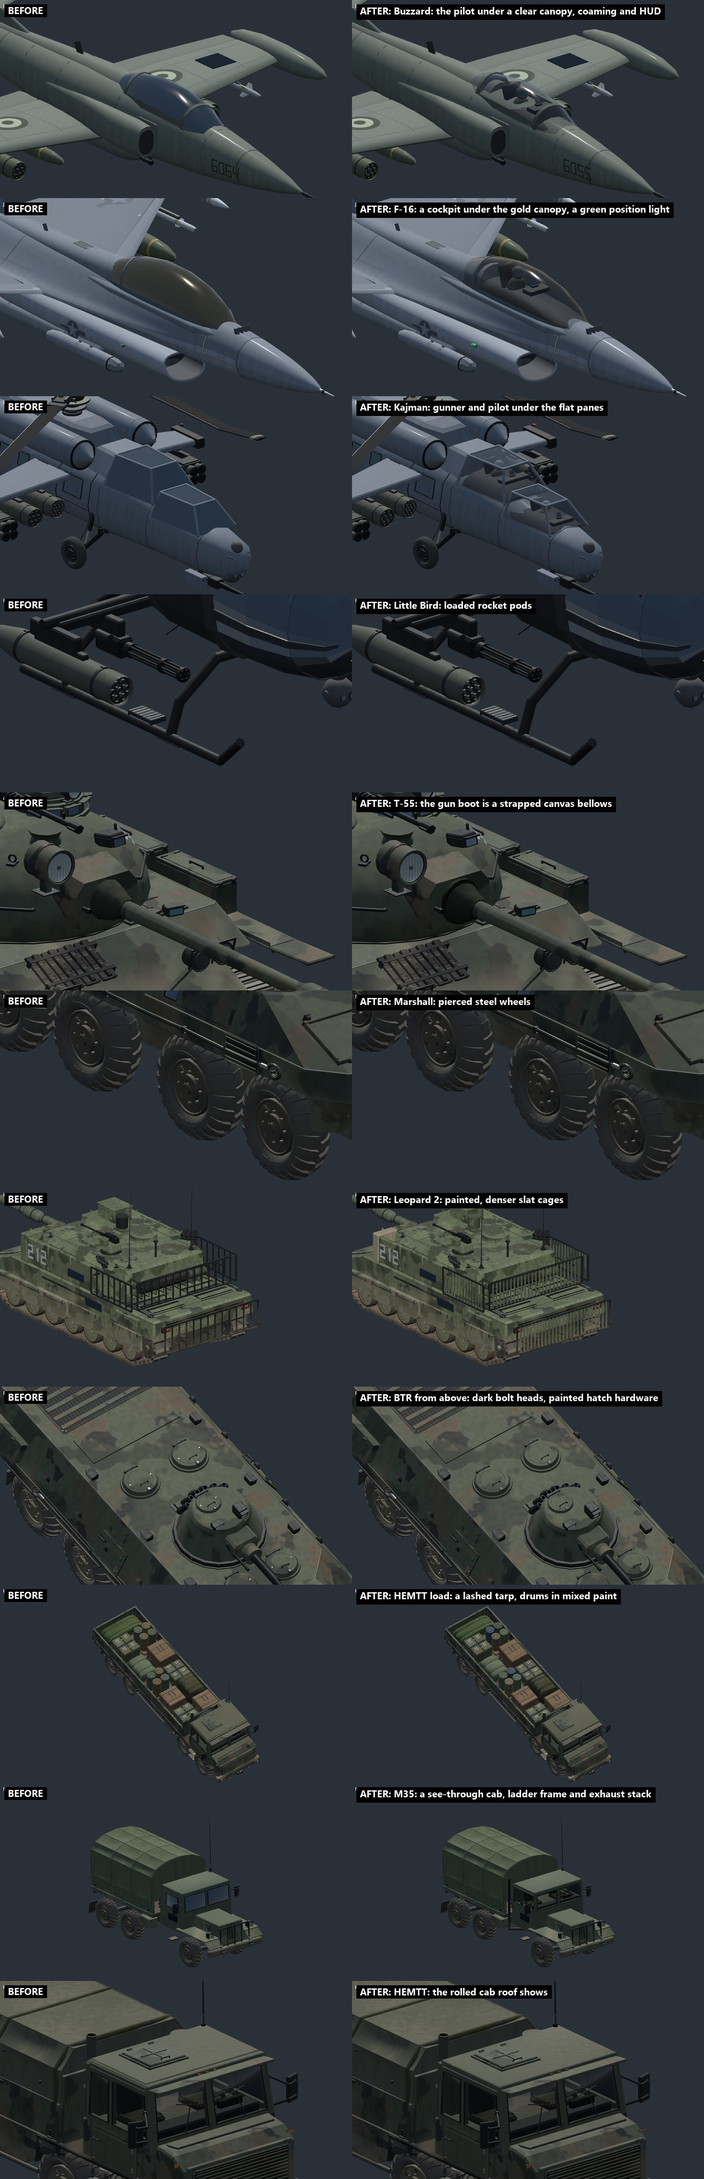
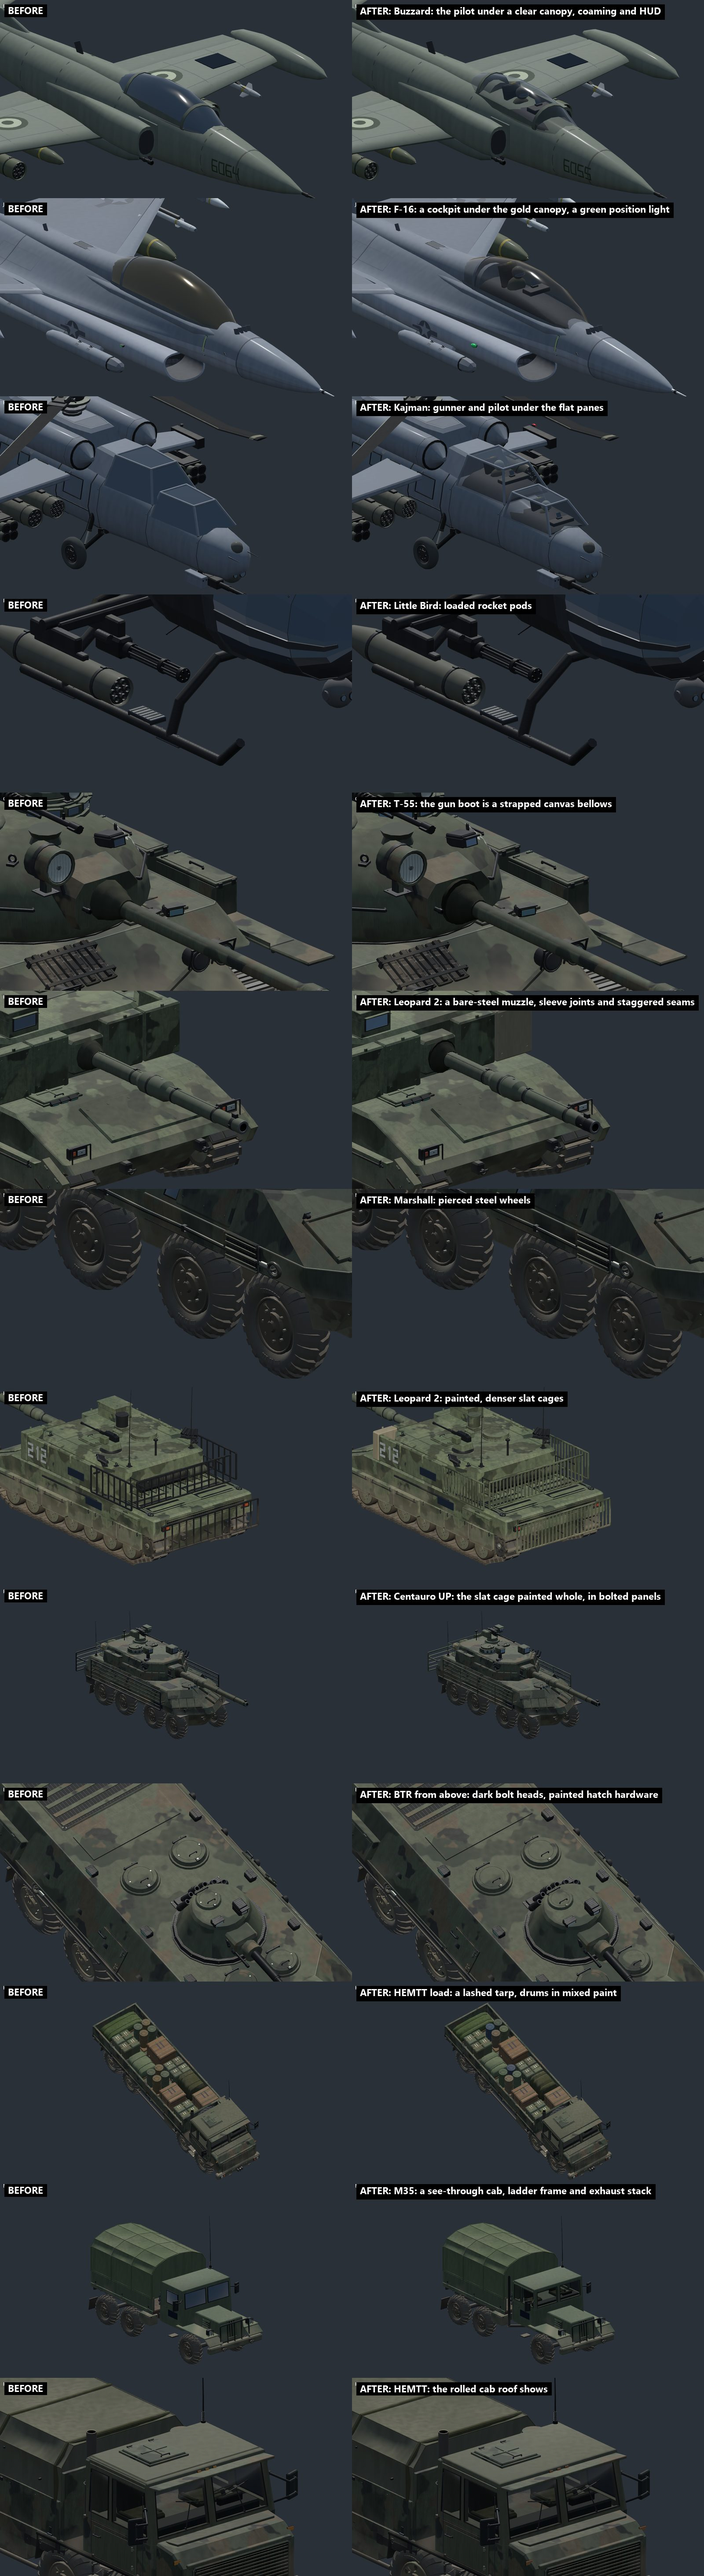
Vehicles, round 7: changelog, docs and sheet
Round 7 joins round 6's changelog entry (guns, cages and tracks) and
the twelfth pass in docs/vehicle-components.md; the comparison sheet's
after column is rendered from the final code, with rows for the
Leopard 2's gun and the Centauro UP's cage.

diff --git a/changelog/unreleased/vehicle-cockpits-bellows-and-cabs.md b/changelog/unreleased/vehicle-cockpits-bellows-and-cabs.md
@@ -5,7 +5,7 @@ kind = "improved"
 
 [[screenshots]]
 file = "comparison.jpg"
-caption = "Matched studio views: before on the left, after on the right. The Buzzard, the F-16, the Kajman, a Little Bird's rocket pod, the T-55's gun, the Marshall's wheels, the Leopard 2's slat cages, a BTR's roof, a HEMTT's load, the M35 and the HEMTT's cab."
+caption = "Matched studio views: before on the left, after on the right. The Buzzard, the F-16, the Kajman, a Little Bird's rocket pod, the T-55's and Leopard 2's guns, the Marshall's wheels, the Leopard 2's and Centauro UP's slat cages, a BTR's roof, a HEMTT's load, the M35 and the HEMTT's cab."
 +++
 
 - Jets and the Kajman have clear, smoked canopies with the cockpit inside: the seat and its headrest, the
@@ -14,14 +14,16 @@ caption = "Matched studio views: before on the left, after on the right. The Buz
   you can pick out from above. Each jet carries its own number, rocket pods are loaded, jet nozzles are bare
   heat-tinted metal, and helicopter windscreens have wipers.
 - Tank guns grow out of a pleated canvas bellows, strapped at the turret, its canvas faded differently from
-  crew to crew.
-- Military truck and carrier wheels are pierced steel. Tracks show their bolt heads and pin ends, some crews
-  have mended a track with a run of new links, and now and then a road wheel is a replacement in another
-  colour.
+  crew to crew. The muzzle end is bare, blast-burnt steel, the thermal sleeve shows its clamped joints and
+  staggered seams, and the fume extractor its weld.
+- Military truck and carrier wheels are pierced steel. Tracks show their bolt heads and pin ends and rest on
+  their return rollers, sagging between them; some crews have mended a track with a run of new links, and now
+  and then a road wheel is a replacement in another colour.
 - Bolt heads and hatch hinges no longer glint from the battle camera, sights and vision blocks are coated
   glass, and autocannon muzzles are burnt black.
-- Exhaust soot fades into the camouflage on more hulls. Slat cages are painted and closer set, some armour
-  modules are depot replacements in plain paint, and walkways read as gritty paint.
+- Exhaust soot fades into the camouflage on more hulls. Slat cages are painted whole, frames and all, built in
+  bolted panels and set closer; some armour modules are depot replacements in plain paint, and walkways read
+  as gritty paint.
 - The M35 and the FIA truck have cabs you can see into, ladder frames under them and, on the M35, an exhaust
   stack. The HEMTT's rolled cab roof shows, battery boxes are lidded bins, tarps are lashed down and drums
   come in mixed paint.

diff --git a/docs/vehicle-components.md b/docs/vehicle-components.md
@@ -849,6 +849,16 @@ and a distant glass instance: the M35 (27 to 39 nodes, 19 to 31 meshes) and the 
   frames; the M35 has an `exhaust_run` stack (no new exhaust point). `VmCiv._mirror` gives `car_paint` a
   moulded shell, `_odd_bonnet` repaints one bonnet in four (`build_car`) or five (hatchbacks), and the
   Zamak's sacks are soft (`VehicleCloth._shell`).
+- **A short seventh round** (two agents, +0.09% vertices, no structure change): `VehicleFittings.barrel`
+  splits the tube at 0.9 of its length and draws the front in `VehicleWeapons.STEEL` (unless the gun is
+  already steel), puts a dark joint ring in each gap of the thermal sleeve and turns each section's closure
+  strip +-25 degrees; `evacuator` has a weld bead round its middle. `VehicleMounts.slats` takes appended
+  `frame_mat` / `frame_col` for the posts and rails and gives cages of horizontal bars an upright at least
+  every 1.6 m (the Kuma, Angara and Rhino UP pass their paint). `VehicleTracks.on_rollers(k, outline, circles,
+  lift)` lets each return roller's top into a track outline when it lies within 8 cm of a long upper run, so
+  `shoes` sags the run between rollers (CSAT and independent static belts); `TrackBelt` records the top run's
+  `free_spans` and hangs them the same way (the Abrams and Bradley). VmCore's guns call
+  `VehicleMounts.gun_boot`. All of it leaves wrecks as they were.
 
 ### Gun mounts: laying, recoil and the guns themselves
 
